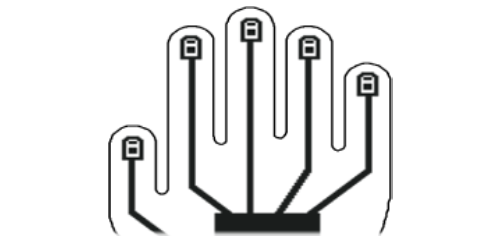
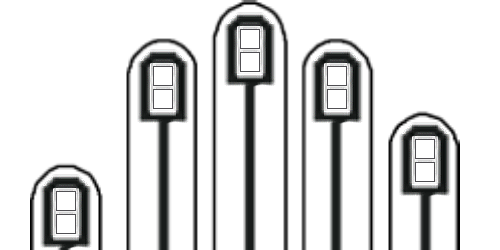
sorted out proper resizing and scaling device image

diff --git a/js/ModesPanel.js b/js/ModesPanel.js
@@ -579,130 +579,16 @@ export default class ModesPanel extends Panel {
     this.handleLedSelectionChange();
   }
 
-  getLedPositions(deviceName = 'Orbit') {
-    // Add logic to return LED positions based on the device name
-    const ledPositions = [];
-
-    // Example logic for different devices
-    if (deviceName === 'Orbit') {
-      return this.getLedPositionsOrbit();
-    } else if (deviceName === 'Gloves') {
-      return this.getLedPositionsGlove();
-    } else if (deviceName === 'Handle') {
-      return this.getLedPositionsHandle();
-    } else if (deviceName === 'Duo') {
-      return this.getLedPositionsDuo();
-    } else if (deviceName === 'Chromadeck') {
-      return this.getLedPositionsChromadeck();
-    } else if (deviceName === 'Spark') {
-      return this.getLedPositionsSpark();
+  async getLedPositions(deviceName) {
+    try {
+      const cacheBuster = '?v=' + new Date().getTime();
+      const response = await fetch(`public/data/${deviceName.toLowerCase()}-led-positions.json${cacheBuster}`);
+      const data = await response.json();
+      return data;
+    } catch (error) {
+      console.error(`Error loading LED positions for ${deviceName}:`, error);
+      return { points: [], original_width: 1, original_height: 1 };
     }
-    return ledPositions;
-  }
-
-  getLedPositionsHandle() {
-    const ledPositions = [
-      { x: 100, y: 125 }, // front
-      { x: 100, y: 160 }, // tip
-      { x: 233, y: 125 }, // back
-    ];
-    return ledPositions;
-
-  }
-
-  getLedPositionsGlove() {
-    const ledPositions = [
-      { x: 246, y: 45 }, // pinkie tip
-      { x: 246, y: 60 }, // pinkie top
-      { x: 207, y: 20 }, // ring tip
-      { x: 207, y: 35 }, // ring top
-      { x: 168, y: 9 },  // middle tip
-      { x: 168, y: 24 }, // middle top
-      { x: 128, y: 20 }, // index tip
-      { x: 128, y: 35 }, // index top
-      { x: 89, y: 86 },  // thumb tip
-      { x: 89, y: 101 }, // thumb top
-    ];
-    return ledPositions;
-  }
-
-  getLedPositionsOrbit() {
-    const ledPositions = [];
-    let size = 11;
-    // Quadrant 1 top
-    for (let i = 0; i < 3; ++i) ledPositions.push({ x: 40 + (i * size) + 67, y: 108 + (i * size) });
-    // Quadrant 1 edge
-    ledPositions.push({ x: ledPositions[2].x + 16, y: ledPositions[2].y + 16 });
-    // Quadrant 1 bottom
-    for (let i = 0; i < 3; ++i) ledPositions.push({ x: 140 + (i * size) + 67, y: 129 - (i * size) });
-    // Quadrant 2 bottom
-    for (let i = 0; i < 3; ++i) ledPositions.push({ x: 208 + (i * size) + 67, y: 108 + (i * size) });
-    // Quadrant 2 edge
-    ledPositions.push({ x: 23, y: 146 });
-    // Quadrant 2 top
-    for (let i = 0; i < 3; ++i) ledPositions.push({ x: 40 + (i * size), y: 129 - (i * size) });
-    // Quadrant 3 top
-    for (let i = 0; i < 3; ++i) ledPositions.push({ x: 62 - (i * size), y: 62 - (i * size) });
-    // Quadrant 3 edge
-    ledPositions.push({ x: ledPositions[16].x - 17, y: ledPositions[16].y - 18 });
-    // Quadrant 3 bottom
-    for (let i = 0; i < 3; ++i) ledPositions.push({ x: 297 - (i * size), y: 40 + (i * size) });
-    // Quadrant 4 bottom
-    for (let i = 0; i < 3; ++i) ledPositions.push({ x: 162 - (i * size) + 67, y: 62 - (i * size) });
-    // Quadrant 4 edge
-    ledPositions.push({ x: 145, y: 24 });
-    // Quadrant 4 top
-    for (let i = 0; i < 3; ++i) ledPositions.push({ x: 130 - (i * size), y: 40 + (i * size) });
-    return ledPositions;
-  }
-
-  getLedPositionsChromadeck() {
-    const ledPositions = [
-        // lol poor mans scaling
-        {x: 250 * (334 / 500), y: 11  * (333 / 500)}, // Outer Ring 12 Oclock
-        {x: 318 * (334 / 500), y: 32  * (333 / 500)}, // Outer Ring 1 Oclock
-        {x: 360 * (334 / 500), y: 90  * (333 / 500)}, // Outer Ring 2 Oclock
-        {x: 360 * (334 / 500), y: 162 * (333 / 500) }, // Outer Ring 4 Oclock
-        {x: 318 * (334 / 500), y: 219 * (333 / 500) }, // Outer Ring 5 Oclock
-        {x: 250 * (334 / 500), y: 241 * (333 / 500) }, // Outer Ring 6 Oclock
-        {x: 183 * (334 / 500), y: 219 * (333 / 500) }, // Outer Ring 7 Oclock
-        {x: 141 * (334 / 500), y: 161 * (333 / 500) }, // Outer Ring 8 Oclock
-        {x: 141 * (334 / 500), y: 90  * (333 / 500) }, // Outer Ring 10 Oclock
-        {x: 183 * (334 / 500), y: 33  * (333 / 500) }, // Outer Ring 11 Oclock
-        {x: 250 * (334 / 500), y: 44  * (333 / 500) }, // Inner Ring 12 Oclock
-        {x: 298 * (334 / 500), y: 60  * (333 / 500) }, // Inner Ring 1 Oclock
-        {x: 328 * (334 / 500), y: 100 * (333 / 500) }, // Inner Ring 2 Oclock
-        {x: 328 * (334 / 500), y: 150 * (333 / 500) }, // Inner Ring 4 Oclock
-        {x: 298 * (334 / 500), y: 192 * (333 / 500) }, // Inner Ring 5 Oclock
-        {x: 250 * (334 / 500), y: 206 * (333 / 500) }, // Inner Ring 6 Oclock
-        {x: 203 * (334 / 500), y: 191 * (333 / 500) }, // Inner Ring 7 Oclock
-        {x: 173 * (334 / 500), y: 151 * (333 / 500) }, // Inner Ring 8 Oclock
-        {x: 173 * (334 / 500), y: 100 * (333 / 500) }, // Inner Ring 10 Oclock
-        {x: 203 * (334 / 500), y: 60  * (333 / 500) }, // Inner Ring 11 Oclock
-    ];
-    return ledPositions;
-  }
-
-  getLedPositionsSpark() {
-    const ledPositions = [
-        // lol poor mans scaling
-        {x: 300 * (334 / 500), y: 40  * (333 / 500)}, // 1 oclock
-        {x: 350 * (334 / 500), y: 125  * (333 / 500)}, // 3 oclock
-        {x: 300 * (334 / 500), y: 212  * (333 / 500)}, // 5 oclock
-        {x: 200 * (334 / 500), y: 212  * (333 / 500)}, // 7 oclock
-        {x: 150 * (334 / 500), y: 125  * (333 / 500)}, // 9 oclock
-        {x: 200 * (334 / 500), y: 40  * (333 / 500)}, // 11 oclock
-    ];
-    return ledPositions;
-  }
-
-  getLedPositionsDuo() {
-    const ledPositions = [
-        // lol poor mans scaling
-        {x: 250 * (334 / 500), y: 25  * (333 / 500)}, // tip led
-        {x: 250 * (334 / 500), y: 140  * (333 / 500)}, // top led
-    ];
-    return ledPositions;
   }
 
   onDeviceDisconnect() {
@@ -780,52 +666,52 @@ export default class ModesPanel extends Panel {
     this.applyLedSelections(selectedLeds);
   }
 
-  renderLedIndicators(deviceName = null) {
+  async renderLedIndicators(deviceName = null) {
     const ledsFieldset = document.getElementById('ledsFieldset');
     const deviceImageContainer = document.getElementById('deviceImageContainer');
-    const ledList = document.getElementById('ledList');
     const ledControls = document.getElementById('ledControls');
 
     if (!deviceName || deviceName === 'None') {
-      ledsFieldset.style.display = 'none'; // Hide the entire fieldset
+      ledsFieldset.style.display = 'none';
       return;
     }
 
-    ledsFieldset.style.display = 'block'; // Show the fieldset
-    deviceImageContainer.innerHTML = ''; // Clear any existing content
-    ledList.style.display = 'block'; // Show the LED list
-    ledControls.style.display = 'flex'; // Show the LED controls
+    ledsFieldset.style.display = 'block';
+    deviceImageContainer.innerHTML = '';
+    ledList.style.display = 'block';
+    ledControls.style.display = 'flex';
+    deviceImageContainer.innerHTML = '';
 
+    const overlay = document.createElement('div');
+    overlay.classList.add('led-overlay');
+    deviceImageContainer.appendChild(overlay);
+
+    const deviceData = await this.getLedPositions(deviceName);
     const deviceImageSrc = this.devices[deviceName].image;
+
     if (deviceImageSrc) {
       const deviceImage = document.createElement('img');
-      deviceImage.src = deviceImageSrc;
+      deviceImage.src = deviceImageSrc + '?v=' + new Date().getTime();
+      deviceImage.style.display = 'block';
+      deviceImage.style.width = '100%';
+      deviceImage.style.height = 'auto';
+
+      deviceImage.onload = () => {
+        const scaleX = deviceImageContainer.clientWidth / deviceData.original_width;
+        const scaleY = deviceImageContainer.clientHeight / deviceData.original_height;
+
+        deviceData.points.forEach((point, index) => {
+          const ledIndicator = document.createElement('div');
+          ledIndicator.classList.add('led-indicator');
+          ledIndicator.style.left = `${point.x * scaleX}px`;
+          ledIndicator.style.top = `${point.y * scaleY}px`;
+          ledIndicator.dataset.ledIndex = index;
+
+          overlay.appendChild(ledIndicator);
+        });
+      };
+
       deviceImageContainer.appendChild(deviceImage);
-    }
-
-    const ledPositions = this.getLedPositions(deviceName);
-    const cur = this.lightshow.vortex.engine().modes().curMode();
-    const isMultiLed = cur && cur.isMultiLed(); // Check if the current mode uses a multi-LED pattern
-
-    ledPositions.forEach((position, index) => {
-      const ledIndicator = document.createElement('div');
-      ledIndicator.classList.add('led-indicator');
-      ledIndicator.style.left = position.x + 'px';
-      ledIndicator.style.top = position.y + 'px';
-      ledIndicator.dataset.ledIndex = index;
-
-      if (isMultiLed) {
-        ledIndicator.classList.add('selected');
-      }
-
-      deviceImageContainer.appendChild(ledIndicator);
-    });
-
-    // Disable LED controls if multi-LED pattern is applied
-    if (isMultiLed) {
-      ledControls.style.display = 'none';
-    } else {
-      ledControls.style.display = 'flex';
     }
   }
 

diff --git a/css/styles.css b/css/styles.css
@@ -767,6 +767,16 @@ legend {
   border: none;
 }
 
+.led-overlay {
+  position: absolute;
+  top: 0;
+  left: 0;
+  width: 100%;
+  height: 100%;
+  pointer-events: none; /* Prevent blocking interactions with the image */
+  z-index: 2; /* Ensure it appears above the image */
+}
+
 .led-indicator {
   position: absolute;
   width: 13px; /* Adjust size */
@@ -775,6 +785,7 @@ legend {
   border-radius: 50%; /* Circular indicators */
   cursor: pointer; /* Change cursor on hover */
   transform: translate(-50%, -50%);
+  z-index: 3; /* Ensure indicators are above other UI elements */
 }
 
 .led-indicator.selected {
@@ -867,7 +878,7 @@ legend {
   position: absolute;
   background-color: #121212;
   box-shadow: 0 8px 16px rgba(0, 0, 0, 0.2);
-  z-index: 1;
+  z-index: 5;
   width: 100%;
 }
 
